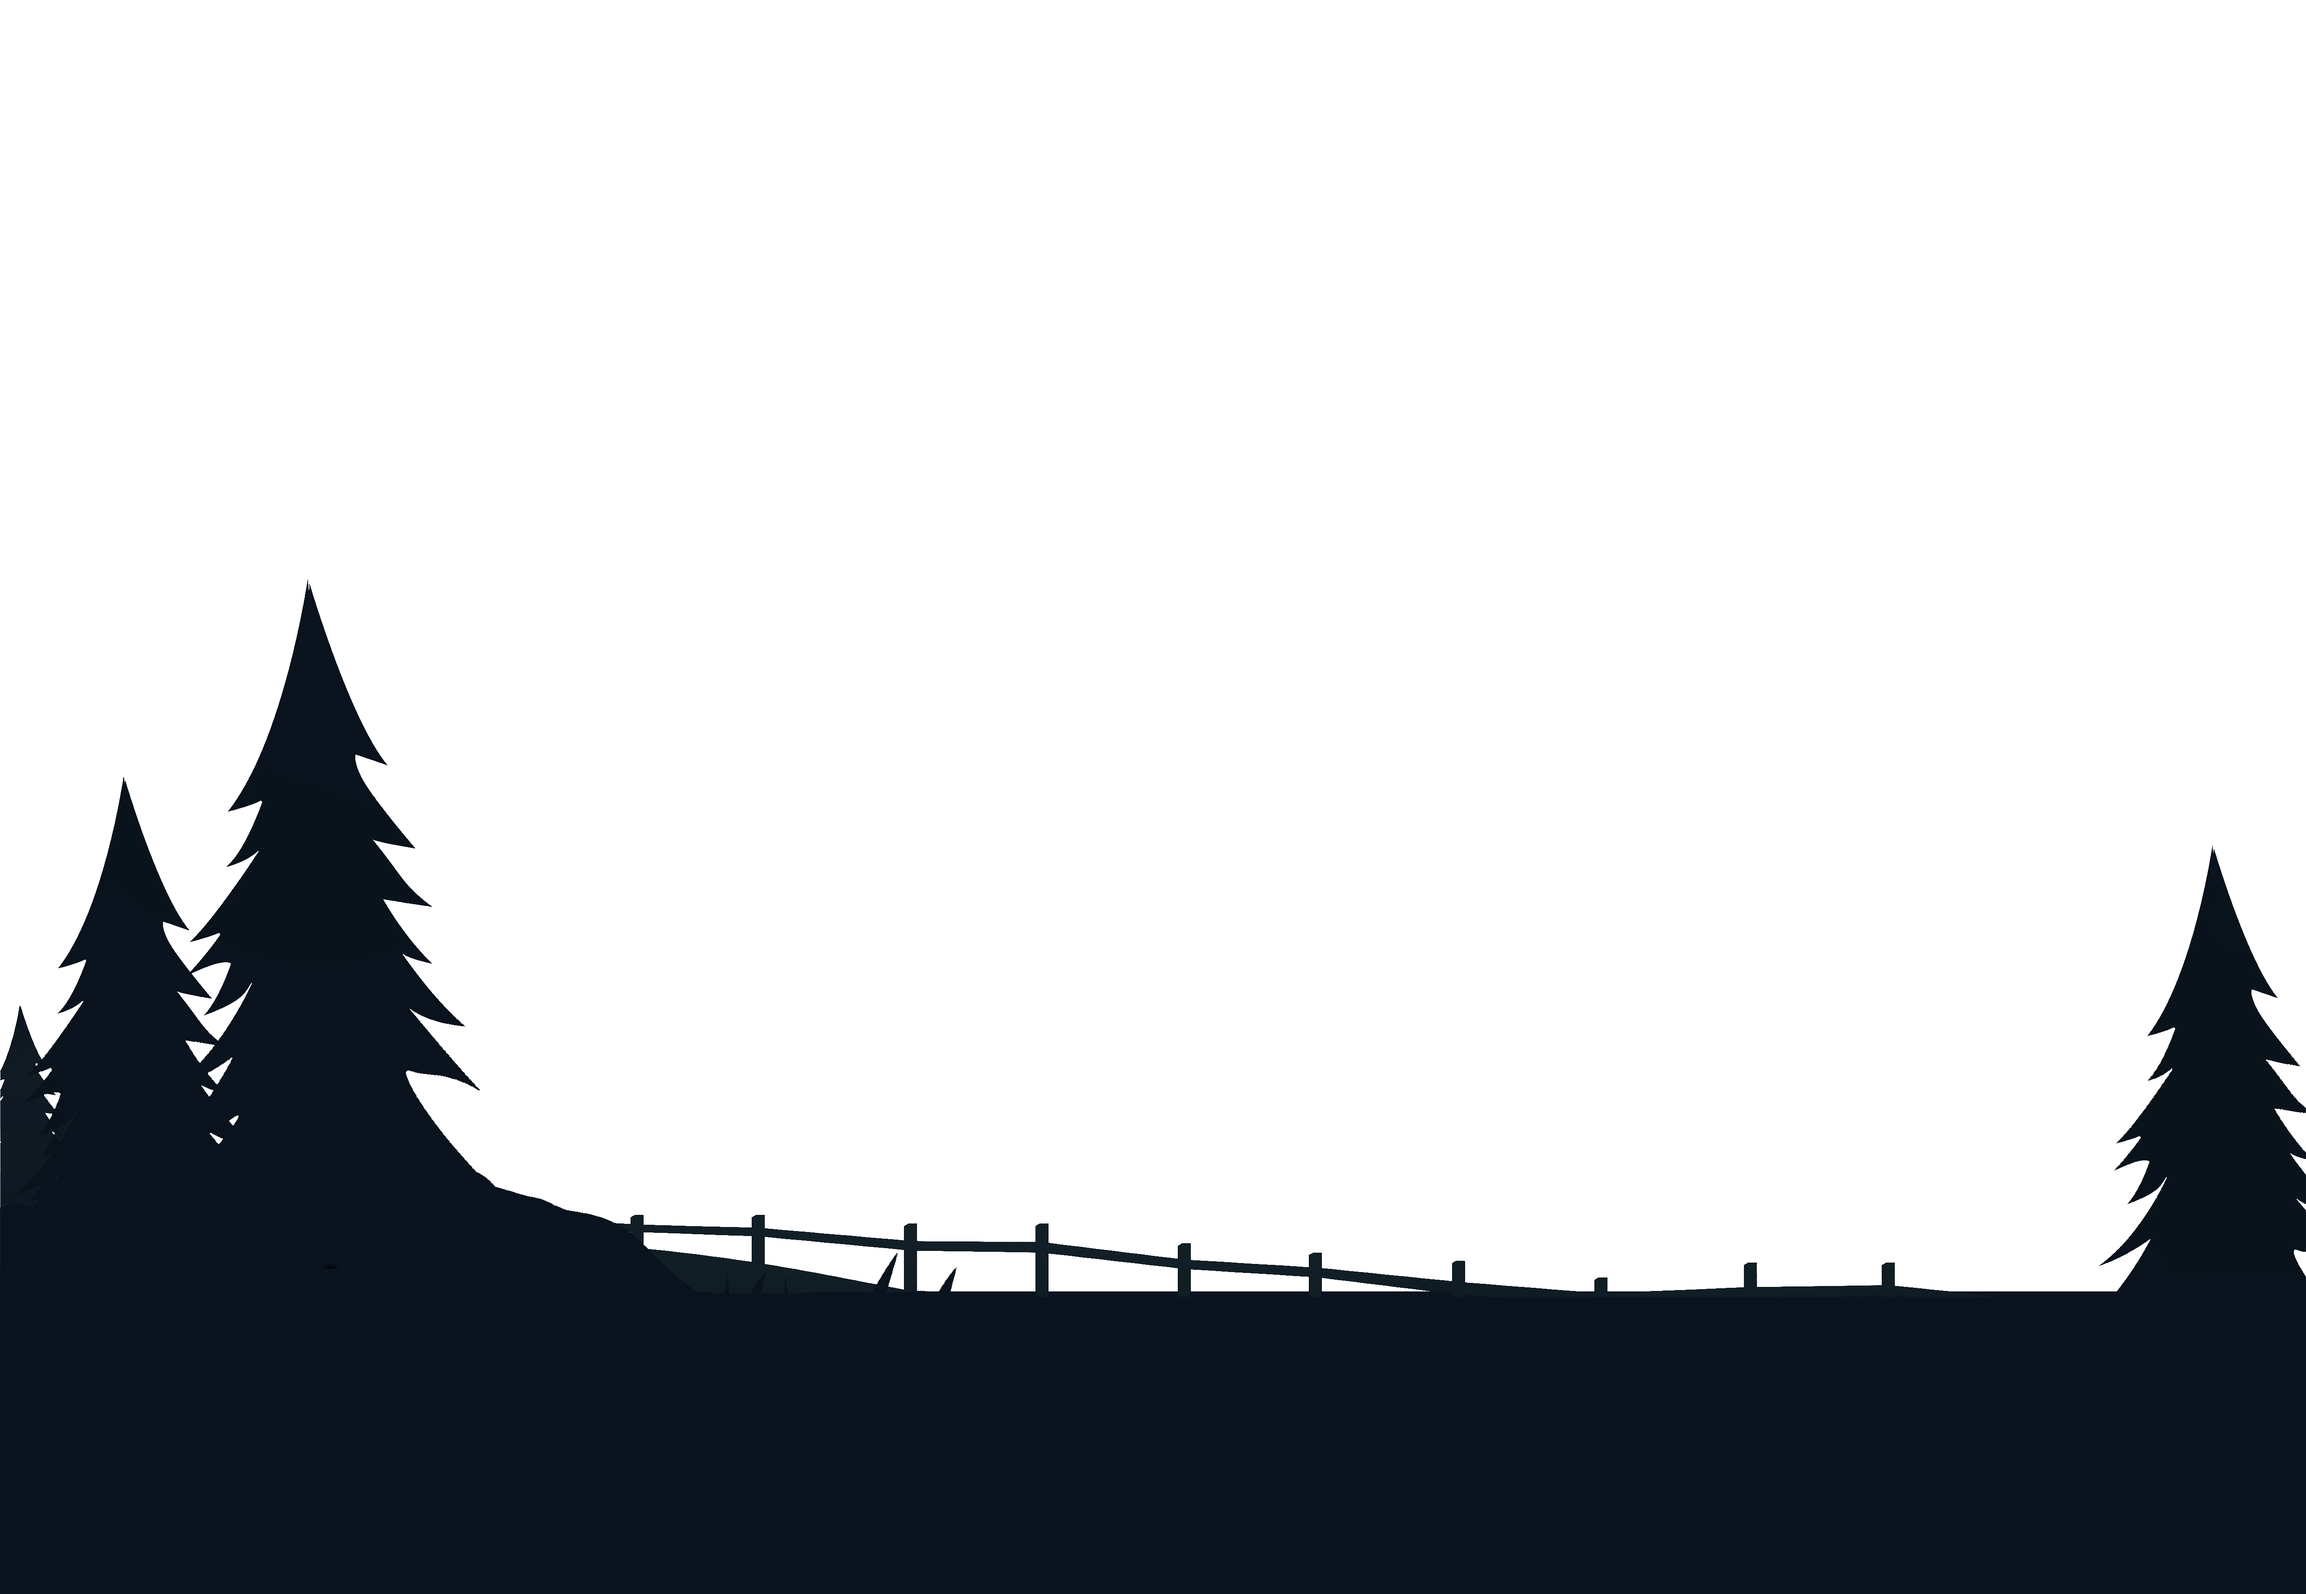
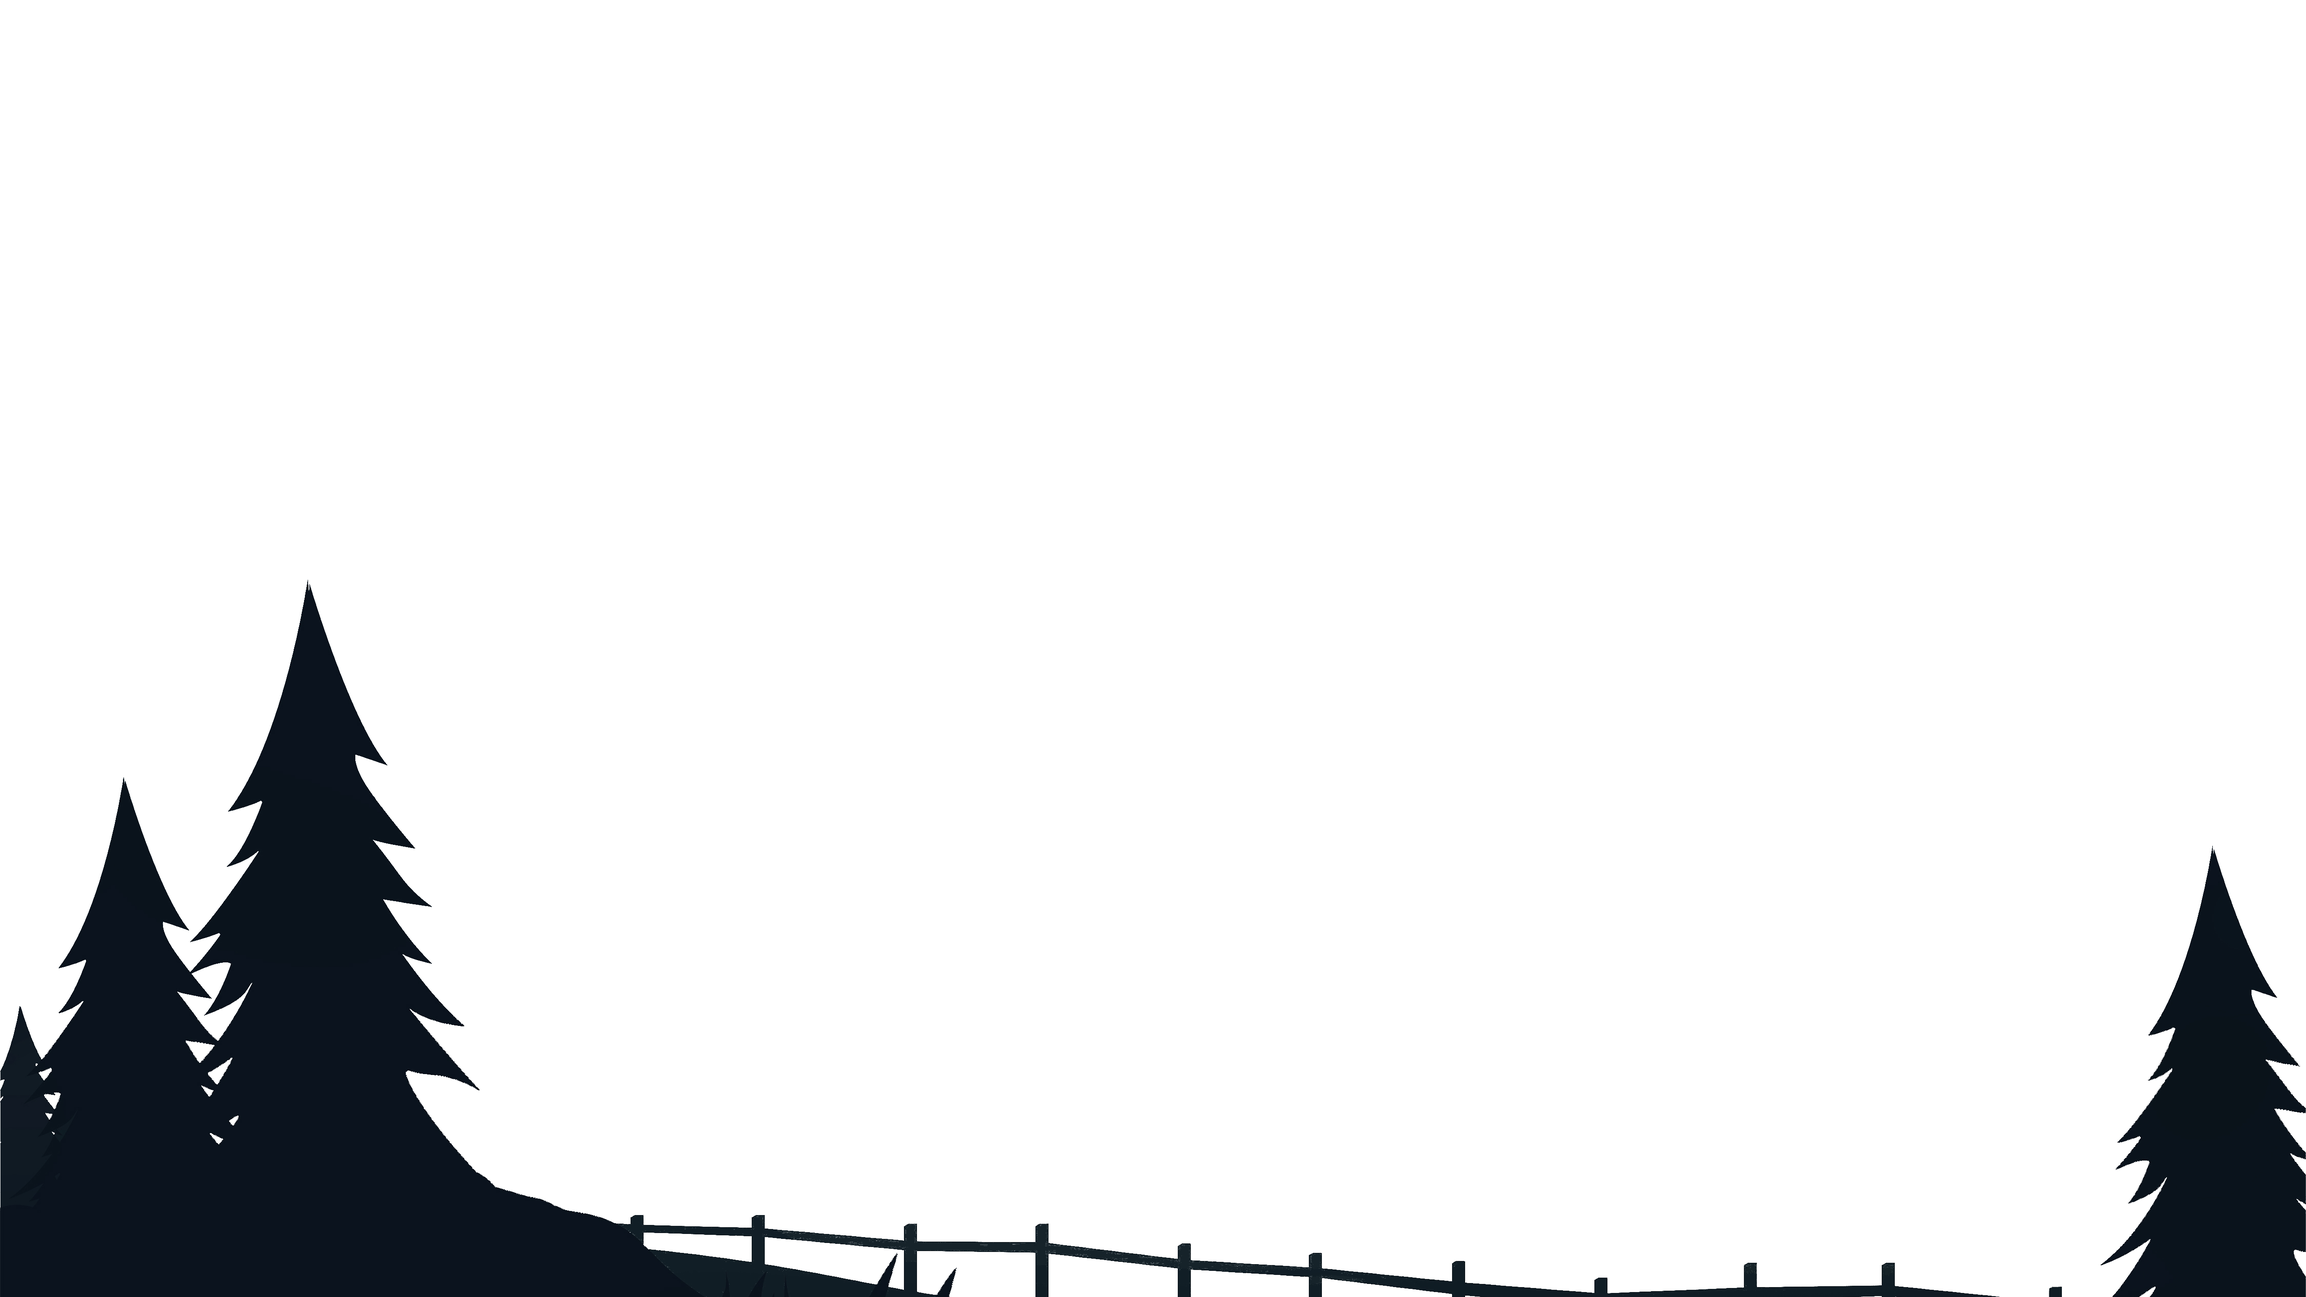
Optimization: JS code refactored.

Changed region(s): [[0.0, 0.375, 1.0, 1.0]]

diff --git a/index.js b/index.js
@@ -1,17 +1,39 @@
-
+let firstLayer =  document.querySelector('#tree-layer');
+let secondLayer =  document.querySelector('#first-layer');
+let thirdLayer =  document.querySelector('#second-layer');
+let fourthLayer =  document.querySelector('#third-layer');
+let cover = document.querySelector(".cover");
+let body = document.querySelector("body");
+let scrollPosition;
+let toogleDisplay;
 
 //https://verpex.com/blog/website-tips/basic-guide-to-parallax-scrolling
 document.addEventListener('scroll', function () {
-    let scrollPosition = window.scrollY;
+    scrollPosition = window.scrollY;
 
-    if (scrollPosition < (window.innerHeight + 200)){
-    document.querySelector('.parallax-layer:nth-child(1)').style.transform = 'translateY(' + (-scrollPosition * 0.25) + 'px)';
-    document.querySelector('.parallax-layer:nth-child(2)').style.transform = 'translateY(' + (-scrollPosition * 0.2) + 'px)';
-    document.querySelector('.parallax-layer:nth-child(2)').style.transform = 'translateY(' + (-scrollPosition * 0.01) + 'px)';
+    const secondLayerRect = secondLayer.getBoundingClientRect();
+    const firstLayerRect = firstLayer.getBoundingClientRect();
 
-    document.querySelector('.tree-layer').style.transform = 'translateY(' + (-scrollPosition * 0.8) + 'px)';
-    document.querySelector('.cover').style.transform = 'translateY(' + (-scrollPosition * 0.8) + 'px)';
-    document.querySelector('body').style.transform = 'translateY(' + (scrollPosition * 0.95) + 'px)';
-    
+    cover.style.top = firstLayerRect.bottom + "px";
+    cover.style.height = -firstLayerRect.top+secondLayerRect.top + 100 +"px";
+
+    if (scrollPosition < (window.innerHeight)){
+        body.style.transform = 'translateY('+ (scrollPosition * 1) + 'px)';
+
+        firstLayer.style.transform = 'translateY(' + (-scrollPosition * 1) + 'px)';
+        secondLayer.style.transform = 'translateY(' + (-scrollPosition * 0.4) + 'px)';
+        thirdLayer.style.transform = 'translateY(' + (-scrollPosition * 0.2) + 'px)';
+        fourthLayer.style.transform = 'translateY(' + (-scrollPosition * 0.05) + 'px)';
+
+    }
+
+    if (firstLayerRect.bottom<0){
+        secondLayer.style.display = 'none';
+        toogleDisplay = true;
+    }
+
+    if (toogleDisplay && firstLayerRect.bottom > 0){
+        secondLayer.style.display = 'block';
+        toogleDisplay = false;
     }
 });

diff --git a/style.css b/style.css
@@ -6,8 +6,14 @@
 
 /* ---------- First Slide ---------- */ 
 .first-slide{
-    height: 200vh;
     width: 100%;
+    background-color: #0a121c;
+}
+
+.second-slide{
+    position: relative;
+    height: 100vh;
+    overflow: hidden;
     background-color: #0a121c;
 }
 
@@ -29,39 +35,29 @@
     height: 100%;
 }
 
-#second-layer{
+#tree-layer{
+    background-image: url("First_Layer.png");
+    z-index: 5;
+}
+
+#first-layer{
     background-image: url("Medium_Layer.png");
-    z-index: 2;
+    z-index: 4;
 }
 
-
-#second-medium-layer{
+#second-layer{
     background-image: url("FirstMedium_Layer.png");
-    z-index: 1.5;
+    z-index: 3;
 }
-
 
 #third-layer{
     background-image: url("Last_Layer.png");
-    z-index: 1;
-}
-
-.tree-layer{
-    position: absolute;
-    height: 125vh;
-    width: 100%;
-    background-image: url("First_Layer.png");
-    background-position: bottom;
-    background-repeat: no-repeat;
-    background-size: cover;
-    z-index: 100;
+    z-index: 2;
 }
 
 .cover{
-    position: absolute;
-    margin-top: 100vh;
-    height: 72vh;
+    position: fixed;
     width: 100%;
     background-color: #0a121c;
-    z-index: 100;
+    z-index: 5;
 }

diff --git a/index.html b/index.html
@@ -13,17 +13,21 @@
 <body>
 
   <!-- Slides -->
-  <div class="tree-layer"></div>
+  
   <div class="cover"></div>
   <main class="first-slide">
 
     <div class="parallax-container">
+      
+      <div class="parallax-layer" id="first-layer"></div>
       <div class="parallax-layer" id="second-layer"></div>
-      <div class="parallax-layer" id="second-medium-layer"></div>
       <div class="parallax-layer" id="third-layer"></div>
+      <div id="tree-layer" class="parallax-layer"></div>
+      
     </div>
 
   </main>
+  <div class="second-slide"></div>
 
 </body>
 </html>
